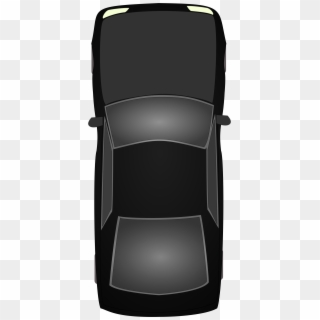
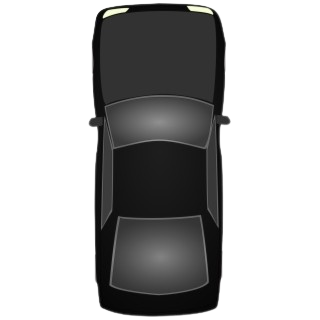
FINAL_GAME

diff --git a/lab_8/1_task/race.py b/lab_8/1_task/race.py
@@ -15,14 +15,14 @@ background_img = pygame.image.load("set/road_back.png").convert()
 background_img = pygame.transform.scale(background_img, (WIDTH, HEIGHT))
 
 player_img = pygame.image.load("set/car.png").convert_alpha()
-player_img = pygame.transform.scale(player_img, (40, 60))
+player_img = pygame.transform.scale(player_img, (60, 80))
 player_rect = player_img.get_rect(center=(WIDTH // 2, HEIGHT - 80))
 
 enemy_img = pygame.image.load("set/enemy_car.png").convert_alpha()
-enemy_img = pygame.transform.scale(enemy_img, (40, 60))
+enemy_img = pygame.transform.scale(enemy_img, (60, 80))
 
 coin_img = pygame.image.load("set/coin.png").convert_alpha()
-coin_img = pygame.transform.scale(coin_img, (20, 20))
+coin_img = pygame.transform.scale(coin_img, (40, 40))
 
 player_speed = 5
 coin_score = 0
